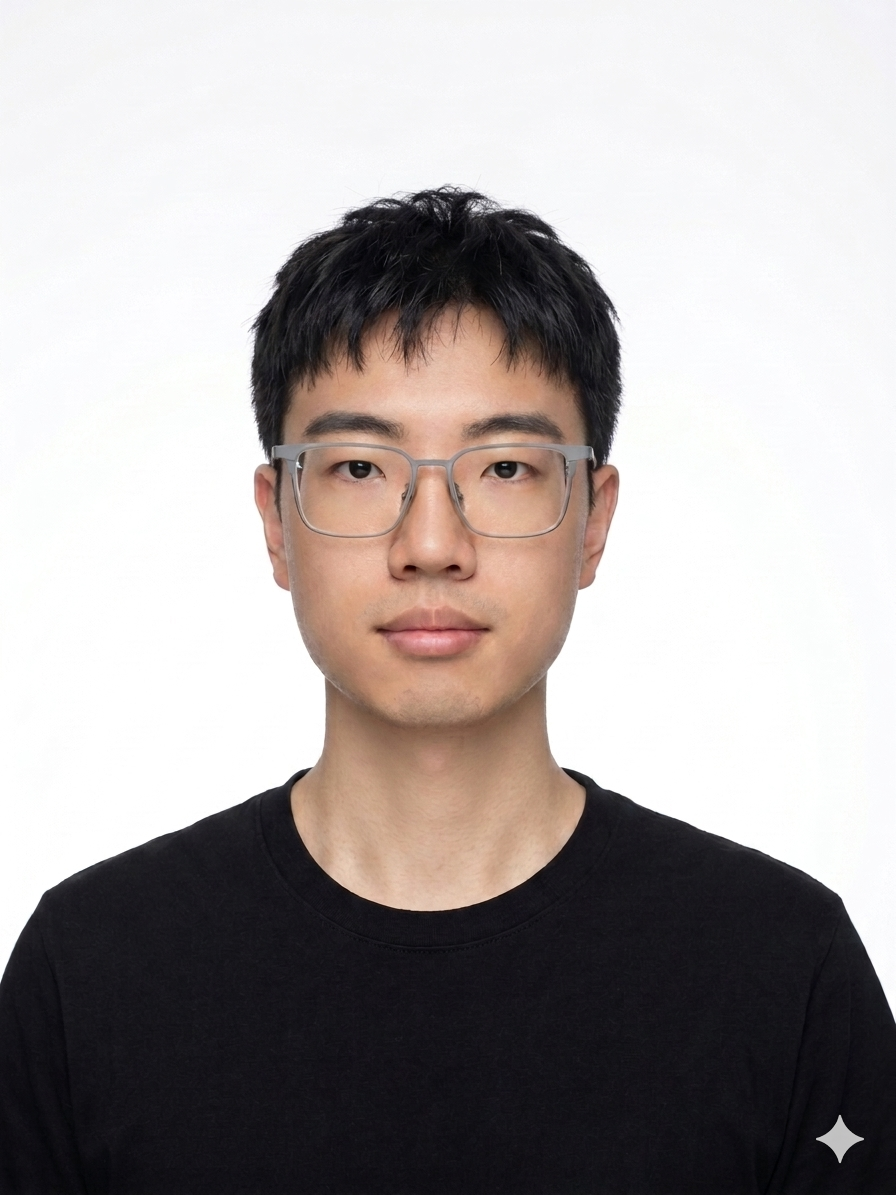
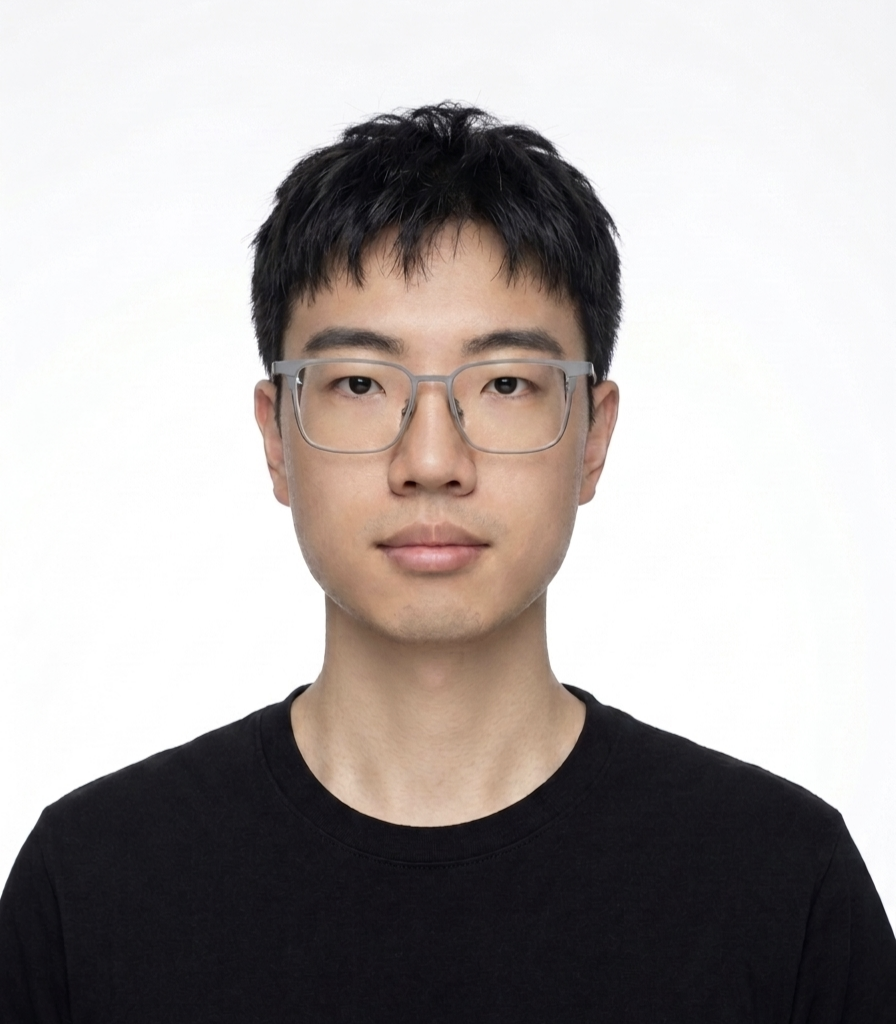
Update homepage README and profile image

Changed region(s): [[0.0, 0.0938, 1.0, 0.9062], [0.9062, 0.9375, 0.9688, 0.9688]]

diff --git a/README.md b/README.md
@@ -1,15 +1,7 @@
-# Personal Academic Homepage
+# Qiji Mo's Homepage
 
-This repository hosts a simple static academic homepage for GitHub Pages.
+This repository hosts my personal academic homepage:
 
-## Files
+https://mqqqqj.github.io
 
-- `index.html`: homepage content.
-- `assets/css/academic-home.css`: page styles.
-- `assets/img/prof_pic.jpg`: profile image.
-- `404.html`: simple fallback page.
-- `.nojekyll`: tells GitHub Pages to publish the files as plain static assets.
-
-No Jekyll, Ruby, Node, or build step is required.
-
-To edit the site, update `index.html` directly and replace `assets/img/prof_pic.jpg` with your own photo when ready.
+The site is a simple static page built with HTML and CSS. It contains my brief bio, news, publications, awards, CV, and related academic links.